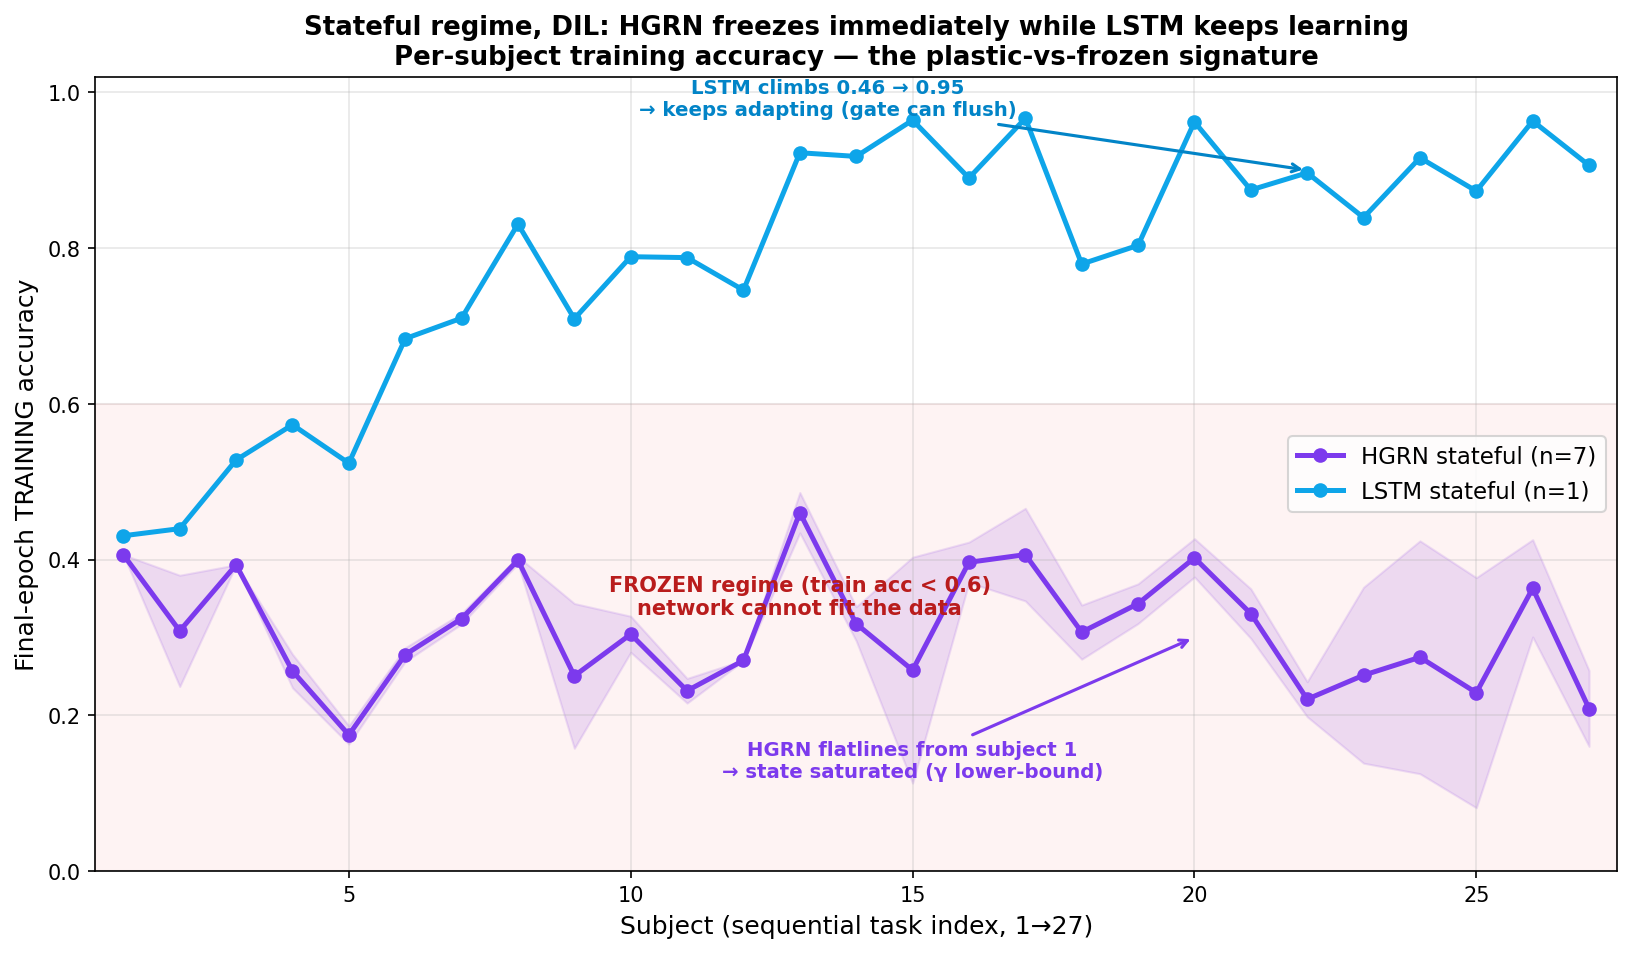
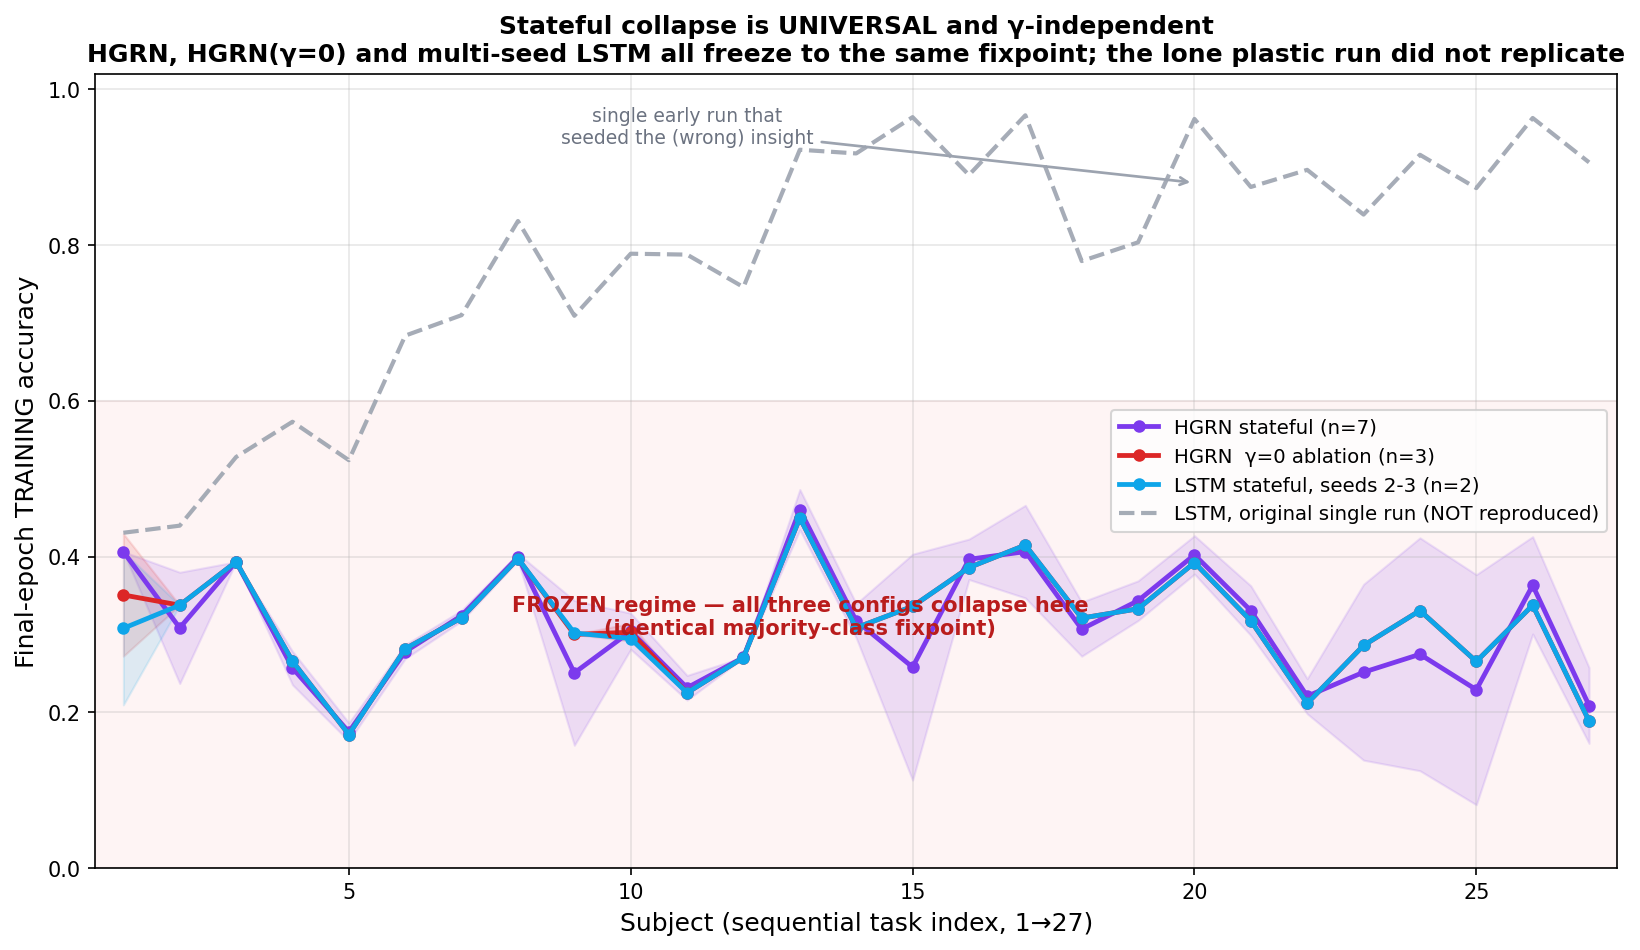
diagnose error

diff --git a/hgrn/train.py b/hgrn/train.py
@@ -163,6 +163,7 @@ def main():
             "d_model": args.d_model,
             "num_layers": args.num_layers,
             "disable_gamma_floor": bool(args.arch == 'hgrn' and args.disable_gamma_floor),
+            "shuffle_train": bool(shuffle_train),
             "batch_size": args.batch_size,
             "epochs_per_task": args.epochs_per_task,
             "learning_rate": args.lr,
